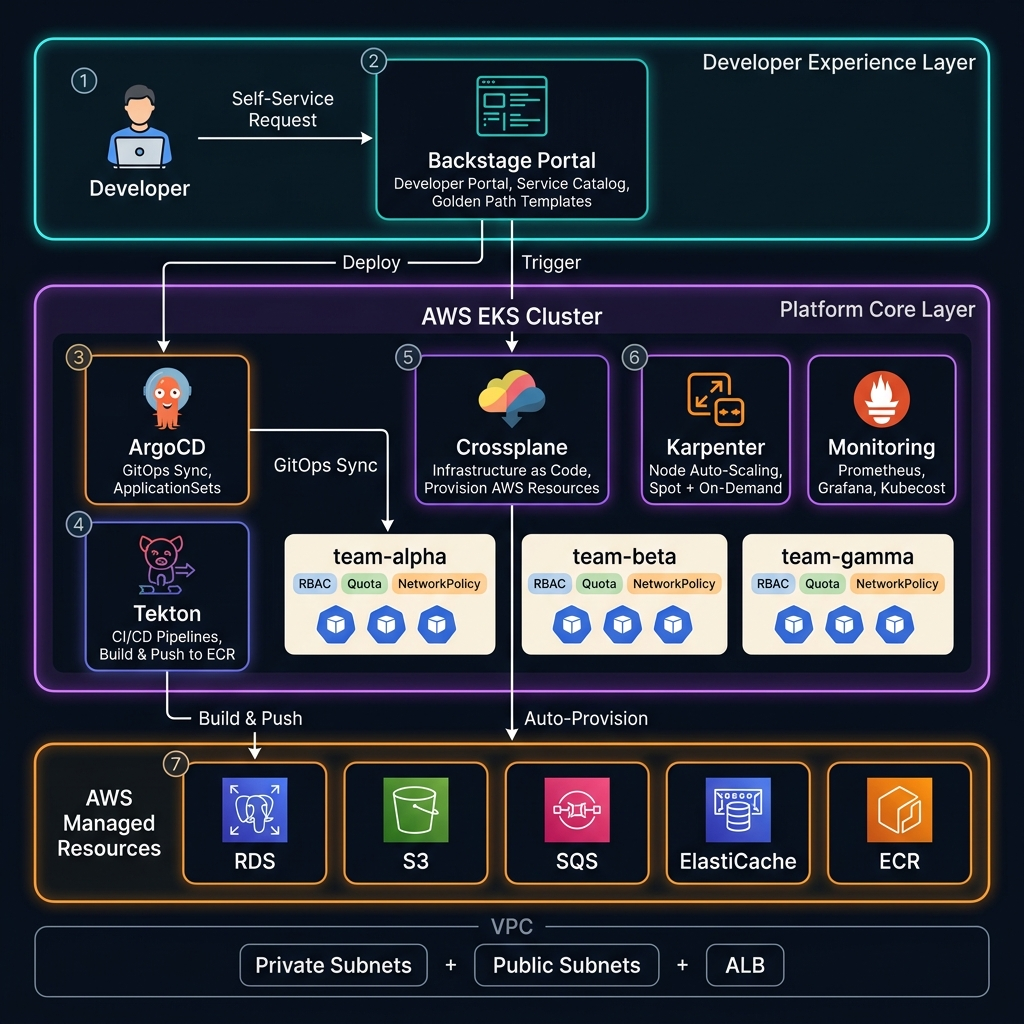
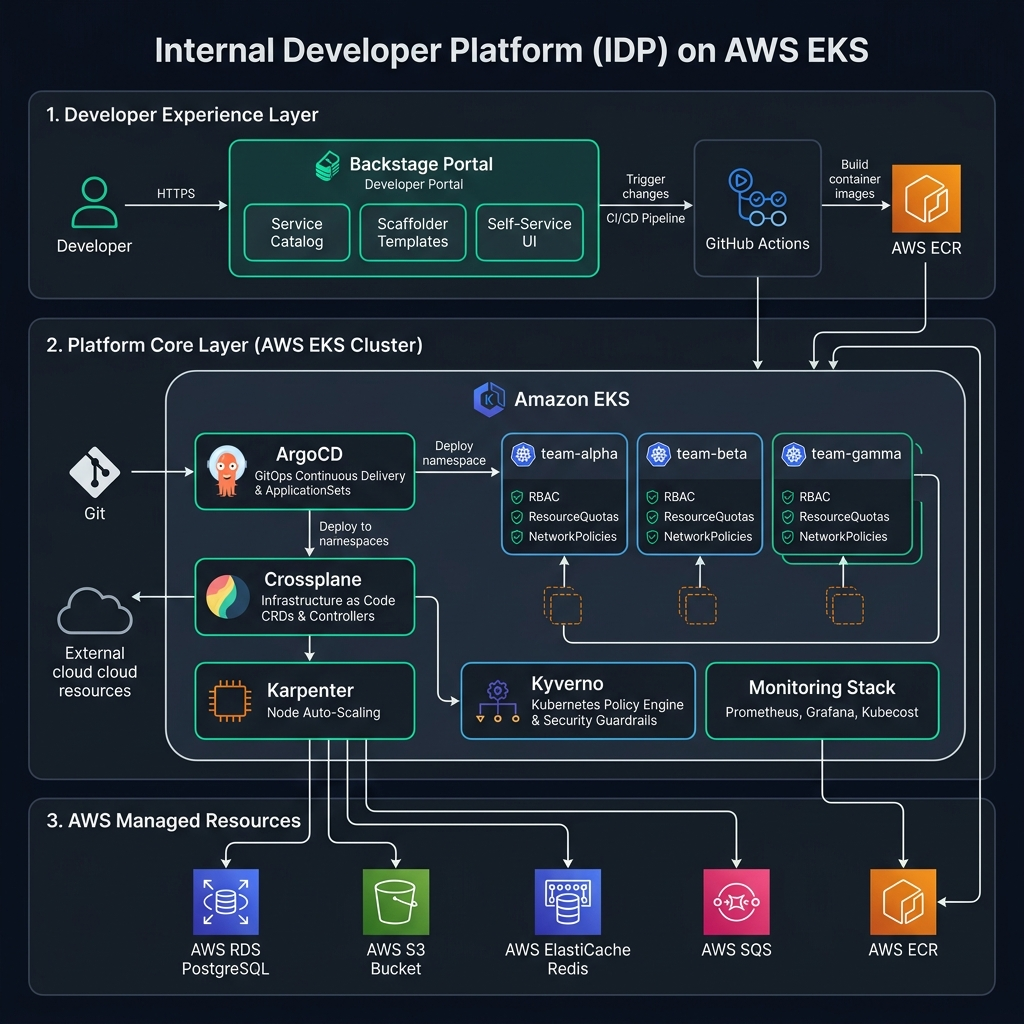
docs: update architecture diagram image to remove Tekton and document new UI/UX, caching, and authentication features in README

diff --git a/README.md b/README.md
@@ -205,6 +205,7 @@ The platform has **three layers**:
 │       │   ├── claimGenerator.js       # Manifest generator engine for 9 platform claims
 │       │   └── catalogService.js       # Catalog discovery and async GitOps automation
 │       ├── server.js                   # Enterprise Portal HTTP Router & Controller
+│       ├── .env.example                # Sample environment variables for team login passcodes
 │       ├── templates/                  # Software templates (golden paths)
 │       └── Dockerfile
 ├── tenants/
@@ -318,12 +319,15 @@ Execute platform deployment, observability, and portal management via simple `ma
 
 - [x] Backstage setup + production `app-config.yaml` & Dockerfile
 - [x] Scaffolder Golden Path Templates (`scaffolder.backstage.io/v1beta3`): Node.js, Python FastAPI
-- [x] 🔑 Passcode-Protected Team Login & RBAC Role Authentication Modal (`alpha2026`, `beta2026`, `gamma2026`)
+- [x] 🔐 Environment Variable Protected Team Login & RBAC Role Authentication Modal (via local `.env` credentials)
 - [x] 🗄 Custom Resource Secret Identifier Input (`writeConnectionSecretToRef.name`) to prevent environment variable conflicts
 - [x] 🛠 9 Parametric Infrastructure Self-Service Claims (PostgreSQL RDS, Redis ElastiCache, AWS S3, Kafka Topics, SSL Certs, Payment OAuth Keys, Grafana Dashboards, Slack Webhooks, Custom Subdomains)
 - [x] System Catalog registration (`all-components.yaml` for teams, domains, systems)
 - [x] Kubernetes & ArgoCD plugin configuration for live pod health & deployment sync
 - [x] Single Pane of Glass multi-tab Component Inspector (Overview, CI/CD Security, K8s Pods, Infra Claims)
+- [x] ⚡ In-Memory API Caching (30s TTL) & Dynamic System Metadata Parsing from `catalog-info.yaml`
+- [x] 🎨 Material 3 Dark-Mode UI with CSS Utility Classes, Responsive Layouts, and Shimmer Skeleton Loading
+- [x] ♿ Built-in Accessibility (`ARIA` attributes, keyboard navigation) and Page Transition Micro-Animations
 
 #### 📸 Backstage Enterprise Developer Portal Showcase
 
